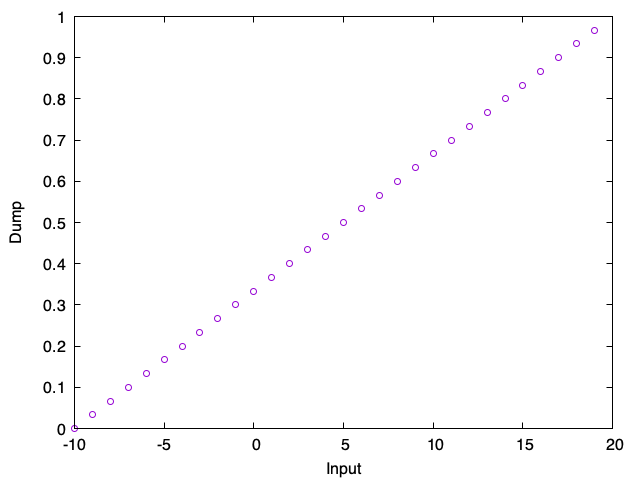
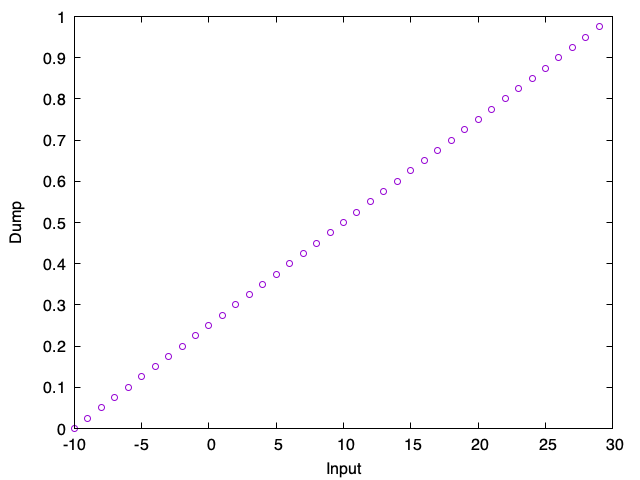
updates

diff --git a/check.py b/check.py
@@ -6,20 +6,30 @@ def readdump(filename):
     with open(filename, "r") as f:
         data = f.readlines()
     readflag = False
-    y = []
-    for line in data:
+    x = []
+    index = []
+    for i, line in enumerate(data):
         if "ATOMS id" in line:
             readflag = True
+            continue
+        if "ITEM: BOX BOUNDS" in line:
+            xlo, xhi = data[i+1].split()
+            xlo = float(xlo)
+            xhi = float(xhi)
             continue
         if not readflag:
             continue
         a = line.split()
-        y.append(float(a[2]))
-    return y
+        x.append(float(a[2]))
+        index.append(int(a[0])-1)
+    y = np.zeros(len(x))
+    for i in range(len(x)):
+        y[index[i]] = x[i]
+    return y, xlo, xhi
 
 
-dump = readdump("test.lammpstrj")
-input = np.arange(-10, 20, 1)
+dump, xlo, xhi = readdump("test.lammpstrj")
+input = np.arange(xlo, xhi, 1)
 
 for x, y in zip(input, dump):
     print(f"{x} {y}")

diff --git a/generate_config.py b/generate_config.py
@@ -33,7 +33,7 @@ def save_file(filename, atoms, lo, hi):
 
 if __name__ == "__main__":
     lo = -10
-    hi = 20
+    hi = 30
     atoms = []
     for x in np.arange(lo, hi, 1):
         atoms.append(Atom(x, 0, 0))

diff --git a/README.md b/README.md
@@ -7,9 +7,13 @@ This is a sample input file for LAMMPS to check the relation between input and o
 ```sh
 python3 generate_config.py
 lmp_serial < test.input
-python3 check.pyt > test.dat
+python3 check.py > test.dat
 gnuplot test.plt
 ```
+
+Then, you will have the following `test.png`.
+
+![test.png](fig/test.png)
 
 ## LISENCE
 
